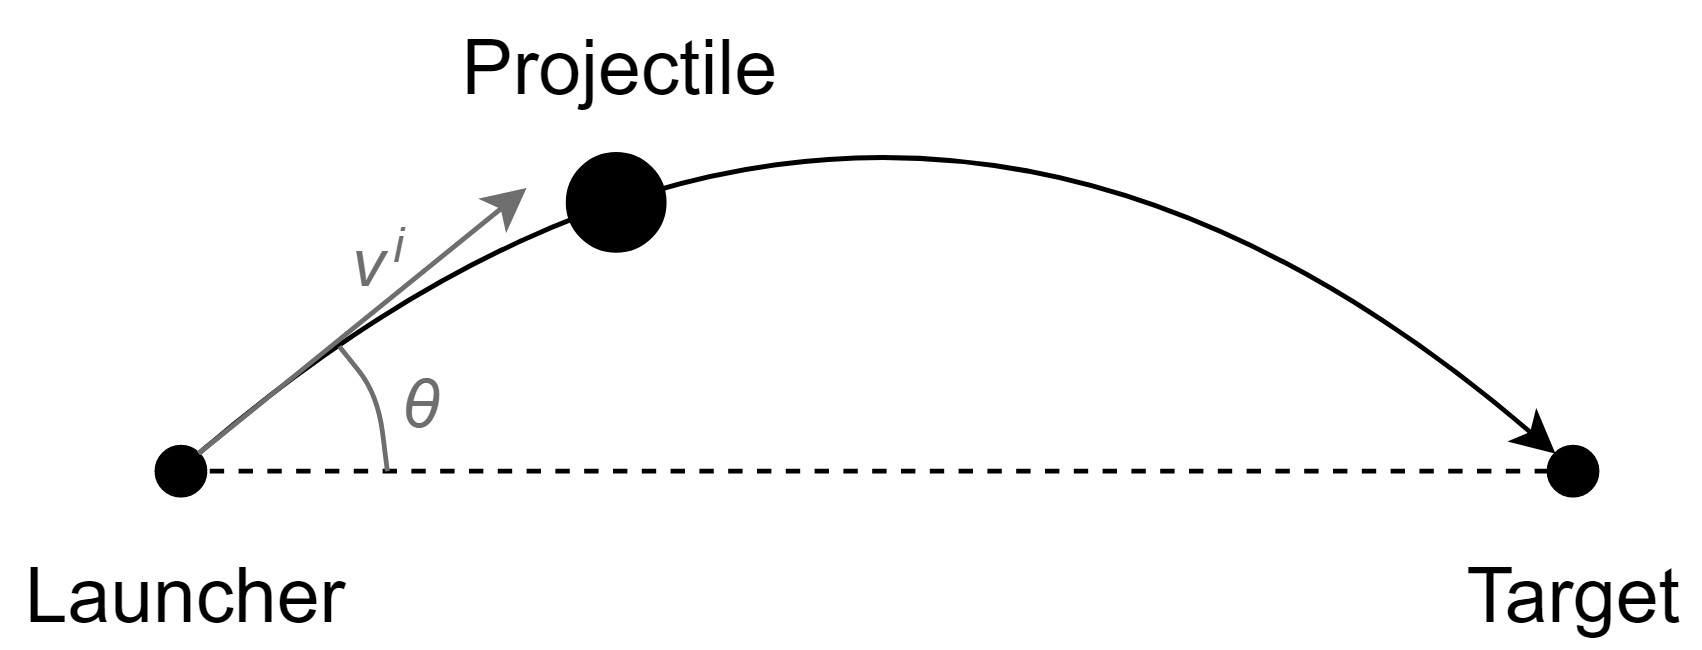
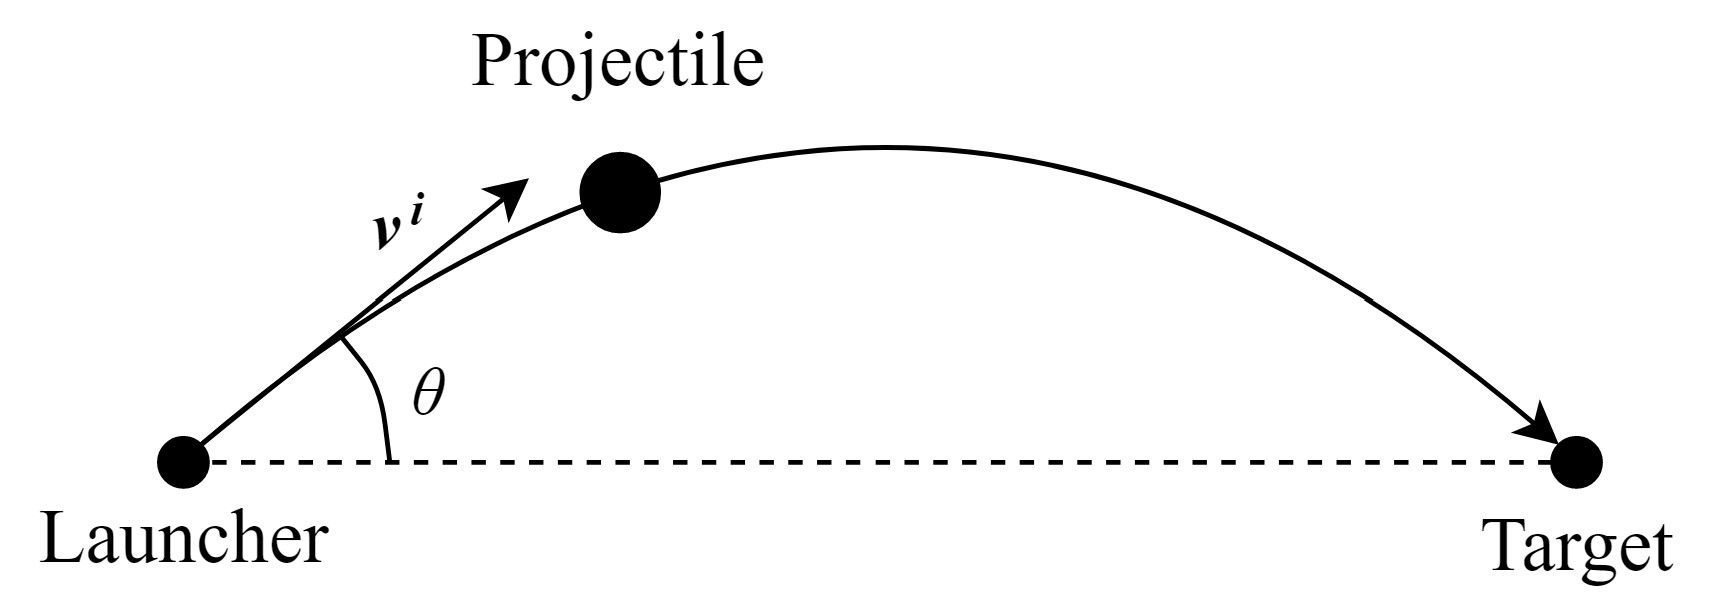
Figure improvements; referenced figure in DDs

diff --git a/code/stable/projectile/Website/Projectile_SRS.html b/code/stable/projectile/Website/Projectile_SRS.html
@@ -166,7 +166,7 @@
                 <div class="list">
                   <p>PS1: The launcher.</p>
                   <p>
-                    PS2: The projectile (with initial speed <em>v<sup>i</sup></em> and launch angle <em>θ</em>).
+                    PS2: The projectile (with initial velocity <em><b>v</b><sup>i</sup></em> and launch angle <em>θ</em>).
                   </p>
                   <p>PS3: The target.</p>
                 </div>
@@ -792,6 +792,14 @@
                       </td>
                     </tr>
                     <tr>
+                      <th>Notes</th>
+                      <td>
+                        <p class="paragraph">
+                          <em><b>v</b><sup>i</sup></em> and <em>θ</em> are shown in <a href=#Figure:Launch>Fig:Launch</a>.
+                        </p>
+                      </td>
+                    </tr>
+                    <tr>
                       <th>Source</th>
                       <td><p class="paragraph">--</p></td>
                     </tr>
@@ -841,6 +849,14 @@
                           </li>
                           <li><em>θ</em> is the launch angle (&deg;)</li>
                         </ul>
+                      </td>
+                    </tr>
+                    <tr>
+                      <th>Notes</th>
+                      <td>
+                        <p class="paragraph">
+                          <em><b>v</b><sup>i</sup></em> and <em>θ</em> are shown in <a href=#Figure:Launch>Fig:Launch</a>.
+                        </p>
                       </td>
                     </tr>
                     <tr>

diff --git a/code/stable/projectile/SRS/Projectile_SRS.tex b/code/stable/projectile/SRS/Projectile_SRS.tex
@@ -112,7 +112,7 @@ This subsection provides a list of terms that are used in the subsequent section
 The physical system of Projectile, as shown in \hyperref[Figure:Launch]{Fig:Launch}, includes the following elements:
 \begin{itemize}
 \item[PS1:]The launcher.
-\item[PS2:]The projectile (with initial speed ${v^{i}}$ and launch angle $θ$).
+\item[PS2:]The projectile (with initial velocity ${\mathbf{v}^{i}}$ and launch angle $θ$).
 \item[PS3:]The target.
 \end{itemize}
 \begin{figure}
@@ -439,6 +439,8 @@ Description & \begin{symbDescription}
               \item{$θ$ is the launch angle (${}^{\circ}$)}
               \end{symbDescription}
 \\ \midrule \\
+Notes & ${\mathbf{v}^{i}}$ and $θ$ are shown in \hyperref[Figure:Launch]{Fig:Launch}.
+\\ \midrule \\
 Source & --
 \\ \midrule \\
 RefBy & \hyperref[IM:calOfLandingDist]{IM: calOfLandingDist}.
@@ -467,6 +469,8 @@ Description & \begin{symbDescription}
               \item{${\mathbf{v}^{i}}$ is the initial velocity ($\frac{\text{m}}{\text{s}}$)}
               \item{$θ$ is the launch angle (${}^{\circ}$)}
               \end{symbDescription}
+\\ \midrule \\
+Notes & ${\mathbf{v}^{i}}$ and $θ$ are shown in \hyperref[Figure:Launch]{Fig:Launch}.
 \\ \midrule \\
 Source & --
 \\ \midrule \\

diff --git a/code/drasil-example/Drasil/Projectile/README.md b/code/drasil-example/Drasil/Projectile/README.md
@@ -1,6 +1,6 @@
 --------------------------------------------------
 ### Summary of Folder Structure and File Contents
-Last updated: May 28, 2019
+Last updated: June 17, 2019
 --------------------------------------------------
 
 **src**
@@ -17,6 +17,9 @@ Concepts.hs
 
 DataDefs.hs
   - The data definitions for Projectile
+
+Figures.hs
+  - The figures for Projectile
 
 GenDefs.hs
   - The general definitions for Projectile
